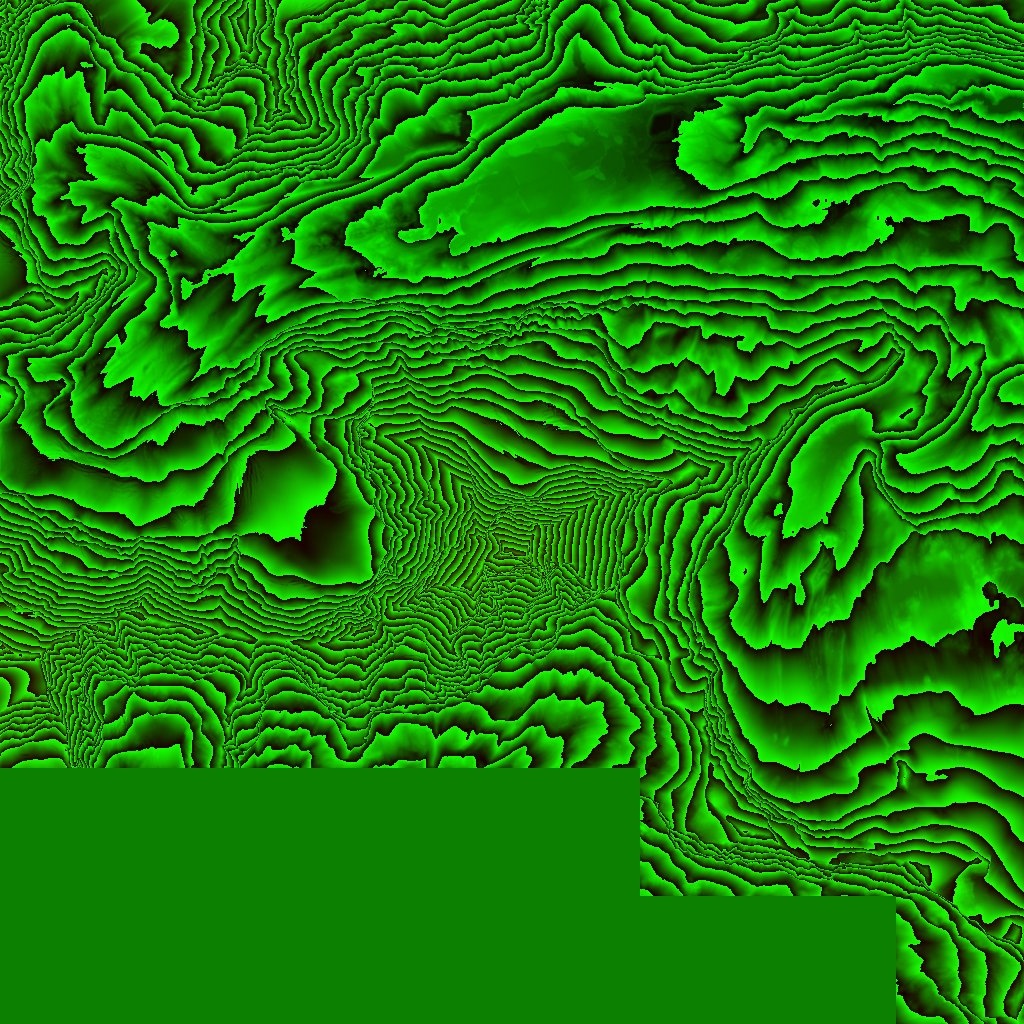
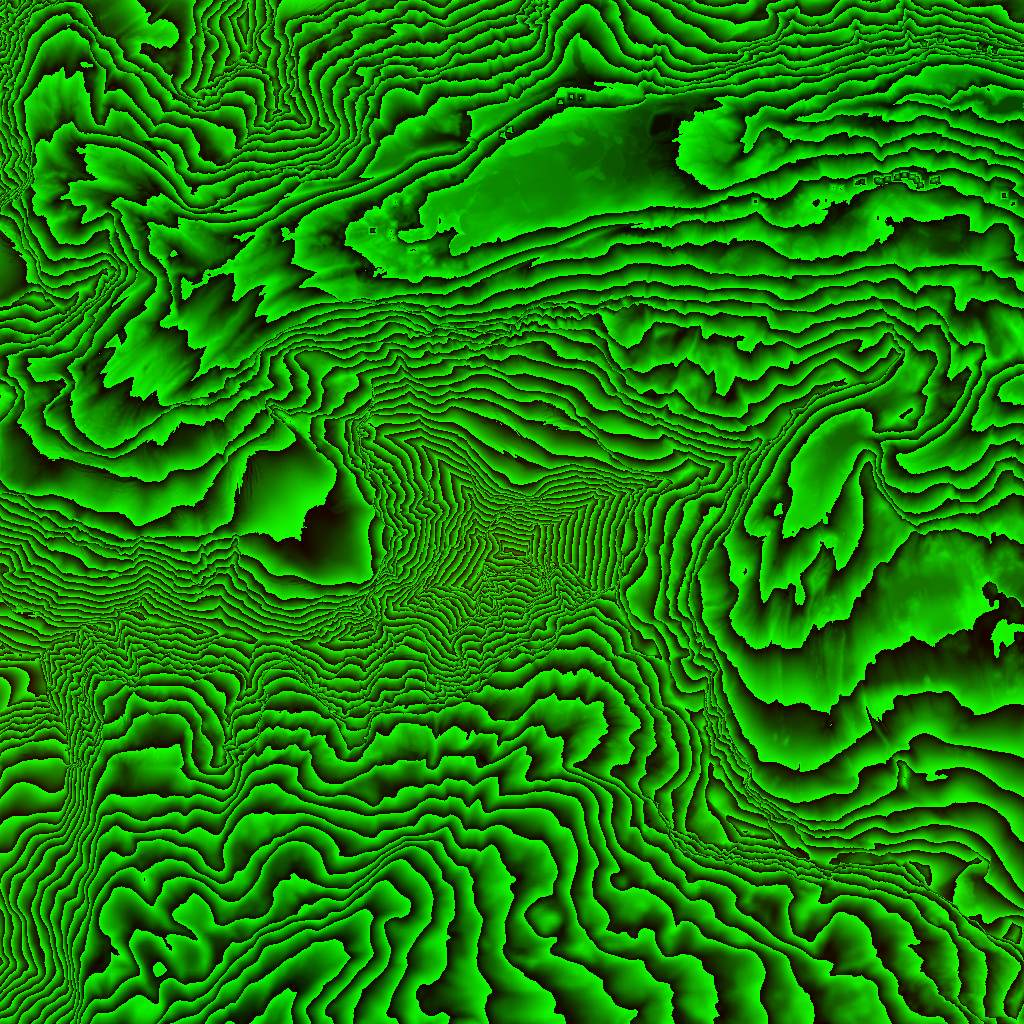
Climb: the Alps around, the drop where the Zmutt drops, real throws
The drop now leaves the flat shoulder at 3420 m on the lower Zmutt and
clears the 60° step below it, filmed in profile from the west. Both jumps
are thrown bodies: he leaves the lip on the line he was skiing and falls
onto the line further down; the backflip lands on the shelf at 4160 m.

Behind the map there was only haze: Italy was a flat floor where
swissALTI3D has no tiles, and the world ended 4 km out. Copernicus GLO-30
fills the missing tiles and a 40 km far field around the map, so the
horizon is the Weisshorn, Dent Blanche and Monte Rosa, and the pull-out
ends on the map of the Alps. Credit line added.

Performance: shadows and ambient occlusion stride with the pixel
footprint far off, the march strides over the smooth far field, the
route sight-lines skip open air on a max-height grid, and the moving
resolution steps down below ~36 fps (and back up) instead of below 20.

diff --git a/web/src/data/photoCredit.ts b/web/src/data/photoCredit.ts
@@ -33,3 +33,10 @@ export const swisstopoCredit: PhotoCredit = {
   licence: 'OGD',
   licenceUrl: 'https://www.geo.admin.ch/en/general-terms-of-use-fsdi',
 };
+
+/** Where swissALTI3D has no tiles, on the Italian side, the heights are the
+ *  Copernicus GLO-30 DSM, whose licence asks for this line. */
+export const copernicusCredit = {
+  text: 'Copernicus WorldDEM-30 © DLR e.V. 2010–2014 and © Airbus Defence and Space GmbH 2014–2018, provided under COPERNICUS by the European Union and ESA',
+  source: 'https://dataspace.copernicus.eu/explore-data/data-collections/copernicus-contributing-missions/collections-description/COP-DEM',
+};

diff --git a/web/tools/fill-italy.py b/web/tools/fill-italy.py
@@ -1,0 +1,54 @@
+# Fill Italy into the coarse height file. swissALTI3D stops at the border and
+# pack-dem.py filled the rest with a flat floor at 2300 m: seen from the Zmutt
+# side, the background behind the mountain was a grey plain. This takes the
+# Copernicus GLO-30 DSM (30 m, open; tile N45 E007 from
+# copernicus-dem-30m.s3.amazonaws.com), samples it on the same LV95 grid,
+# levels it to the Swiss data along the border and puts it where the floor was.
+#   python fill-italy.py public/hero/matterhorn-dem.webp cop.tif out.webp
+# Needs numpy, pillow, tifffile, imagecodecs.
+import sys, numpy as np, tifffile
+from PIL import Image
+src, cop, out = sys.argv[1:4]
+N = 1024; PX = 8000 / N; E0, N1 = 2613000, 1096000
+
+rgb = np.asarray(Image.open(src).convert('RGB')).astype(np.int32)
+h = (rgb[..., 0] * 256 + rgb[..., 1]) / 4 + 1500
+floor = h == 2300
+
+# The grid in LV95, then WGS84 by swisstopo's approximate formulas (~1 m).
+j, i = np.meshgrid(np.arange(N), np.arange(N))
+E = E0 + (j + 0.5) * PX; Nn = N1 - (i + 0.5) * PX
+y = (E - 2600000) / 1e6; x = (Nn - 1200000) / 1e6
+lon = (2.6779094 + 4.728982 * y + 0.791484 * y * x + 0.1306 * y * x * x - 0.0436 * y ** 3) * 100 / 36
+lat = (16.9023892 + 3.238272 * x - 0.270978 * y * y - 0.002528 * x * x - 0.0447 * y * y * x - 0.0140 * x ** 3) * 100 / 36
+
+# Copernicus: pixel-is-point, (0, 0) at 7°E 46°N, one arc-second. Bilinear.
+c = tifffile.imread(cop).astype(np.float64)
+cc = (lon - 7) * 3600; rr = (46 - lat) * 3600
+r0 = np.floor(rr).astype(int); c0 = np.floor(cc).astype(int); fr = rr - r0; fc = cc - c0
+g = lambda a, b: c[np.clip(a, 0, 3599), np.clip(b, 0, 3599)]
+k = (g(r0, c0) * (1 - fc) + g(r0, c0 + 1) * fc) * (1 - fr) + (g(r0 + 1, c0) * (1 - fc) + g(r0 + 1, c0 + 1) * fc) * fr
+
+# Level: the mean difference over Swiss texels within ~250 m of the floor.
+def grow(m, n):
+    m = m.copy()
+    for _ in range(n):
+        m[1:] |= m[:-1]; m[:-1] |= m[1:]; m[:, 1:] |= m[:, :-1]; m[:, :-1] |= m[:, 1:]
+    return m
+band = grow(floor, 32) & ~floor
+off = np.median(h[band] - k[band])
+k += off
+print('floor', floor.mean().round(3), 'offset', round(off, 2), 'm, band rms', round(float(np.sqrt(np.mean((h[band] - k[band]) ** 2))), 1))
+
+# Into the floor, and feathered over the first few Swiss texels so the seam
+# does not stand as a step.
+f = h.copy(); f[floor] = k[floor]
+w = np.zeros((N, N)); ring = floor.copy()
+for d in range(1, 5):
+    nxt = grow(ring, 1); new = nxt & ~ring; w[new] = 1 - d / 5; ring = nxt
+f = np.where(floor, f, h * (1 - w) + k * w)
+
+q = np.clip(np.round((f - 1500) * 4), 0, 65535).astype(np.uint16)
+o = np.dstack([(q >> 8).astype(np.uint8), (q & 255).astype(np.uint8), np.zeros_like(q, np.uint8)])
+Image.fromarray(o).save(out, 'WEBP', lossless=True, quality=100, method=6)
+print('min', f.min().round(), 'max', f.max().round())

diff --git a/web/tools/pack-far.py b/web/tools/pack-far.py
@@ -1,0 +1,38 @@
+# The Alps around the map: 40 x 40 km centred on the summit at 78 m, from the
+# Copernicus GLO-30 DSM (tiles N45 E007 and N46 E007,
+# copernicus-dem-30m.s3.amazonaws.com). Behind the 8 km map it is the horizon
+# — Weisshorn, Dent Blanche, Monte Rosa — instead of haze, and from high above
+# it is the map the climb pulls out to. R/G = high/low byte of h x 2.
+#   python pack-far.py cop45.tif cop46.tif out.webp
+# Needs numpy, pillow, tifffile, imagecodecs.
+import sys, numpy as np, tifffile
+from PIL import Image
+t45, t46, out = sys.argv[1:4]
+N = 512; SPAN = 40000; PX = SPAN / N; SE, SN = 2617048, 1091674
+tiles = [(tifffile.imread(t45).astype(np.float64), 46.0), (tifffile.imread(t46).astype(np.float64), 47.0)]
+
+def sample(x, yy):
+    """Copernicus at summit-relative metres, bilinear, from whichever tile."""
+    y = (SE + x - 2600000) / 1e6; xx = (SN + yy - 1200000) / 1e6
+    lon = (2.6779094 + 4.728982 * y + 0.791484 * y * xx + 0.1306 * y * xx * xx - 0.0436 * y ** 3) * 100 / 36
+    lat = (16.9023892 + 3.238272 * xx - 0.270978 * y * y - 0.002528 * xx * xx - 0.0447 * y * y * xx - 0.0140 * xx ** 3) * 100 / 36
+    h = np.zeros_like(x)
+    for c, top in tiles:
+        rr = (top - lat) * 3600; cc = (lon - 7) * 3600
+        # Up to the last row: the next tile's first row is the same latitude.
+        m = (rr >= 0) & (rr < 3600) & (cc >= 0) & (cc < 3599)
+        r0 = np.minimum(np.floor(rr[m]).astype(int), 3598); c0 = np.floor(cc[m]).astype(int); fr = np.minimum(rr[m] - r0, 1); fc = cc[m] - c0
+        h[m] = (c[r0, c0] * (1 - fc) + c[r0, c0 + 1] * fc) * (1 - fr) + (c[r0 + 1, c0] * (1 - fc) + c[r0 + 1, c0 + 1] * fc) * fr
+    return h
+
+# Each texel the mean of 3 x 3 samples, so the 30 m data is filtered, not picked.
+j, i = np.meshgrid(np.arange(N), np.arange(N))
+acc = np.zeros((N, N))
+for a in (-1, 0, 1):
+    for b in (-1, 0, 1):
+        acc += sample(-SPAN / 2 + (j + 0.5 + a / 3) * PX, SPAN / 2 - (i + 0.5 + b / 3) * PX)
+h = acc / 9
+q = np.clip(np.round(h * 2), 0, 65535).astype(np.uint16)
+o = np.dstack([(q >> 8).astype(np.uint8), (q & 255).astype(np.uint8), np.zeros_like(q, np.uint8)])
+Image.fromarray(o).save(out, 'WEBP', lossless=True, quality=100, method=6)
+print('min', h.min().round(), 'max', h.max().round(), 'at', np.unravel_index(h.argmax(), h.shape))
